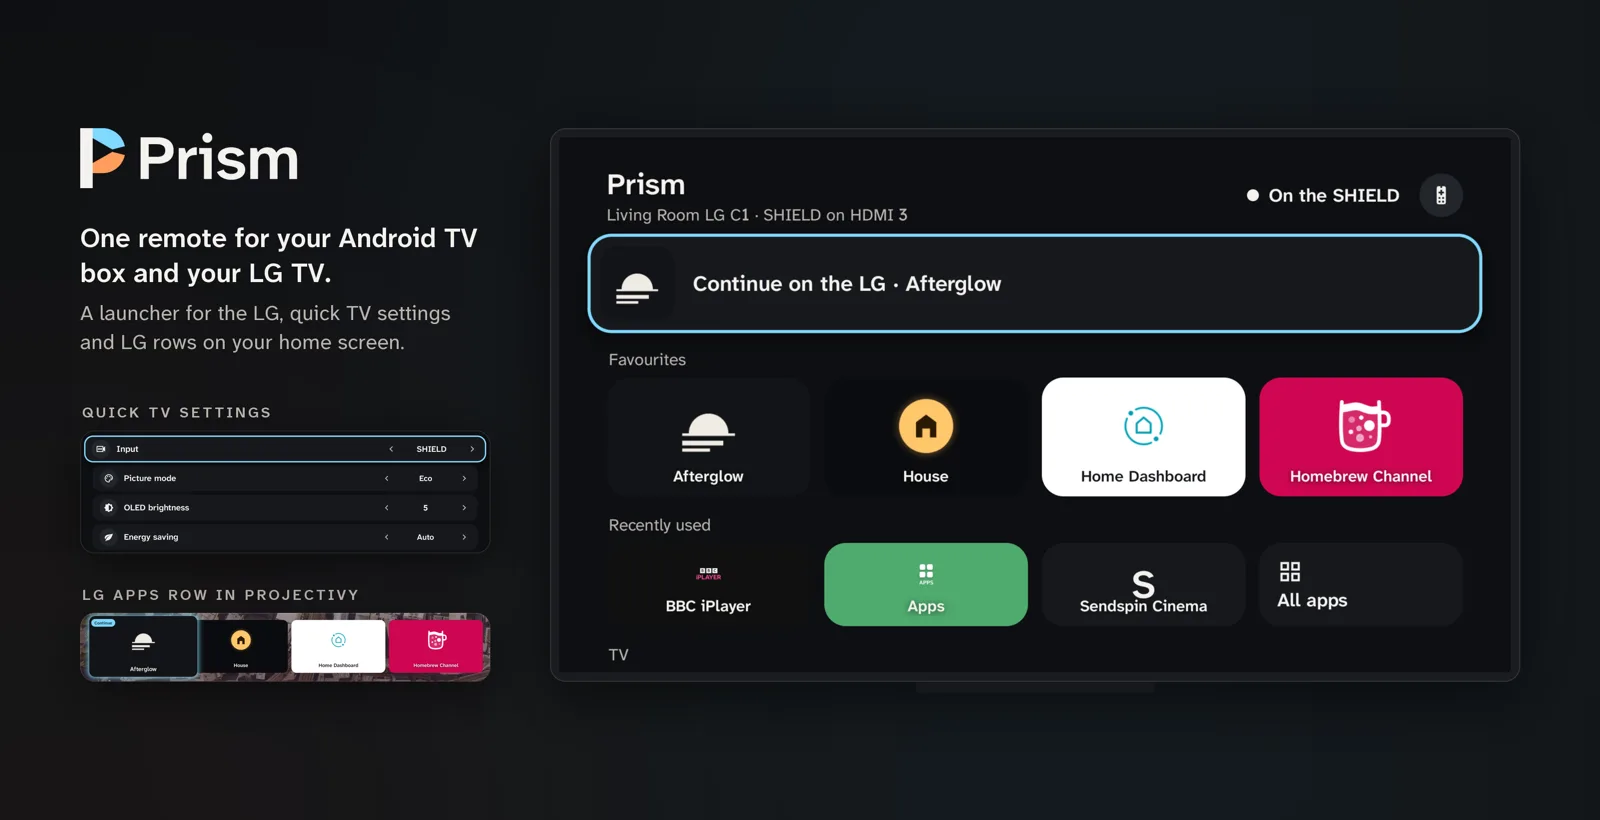
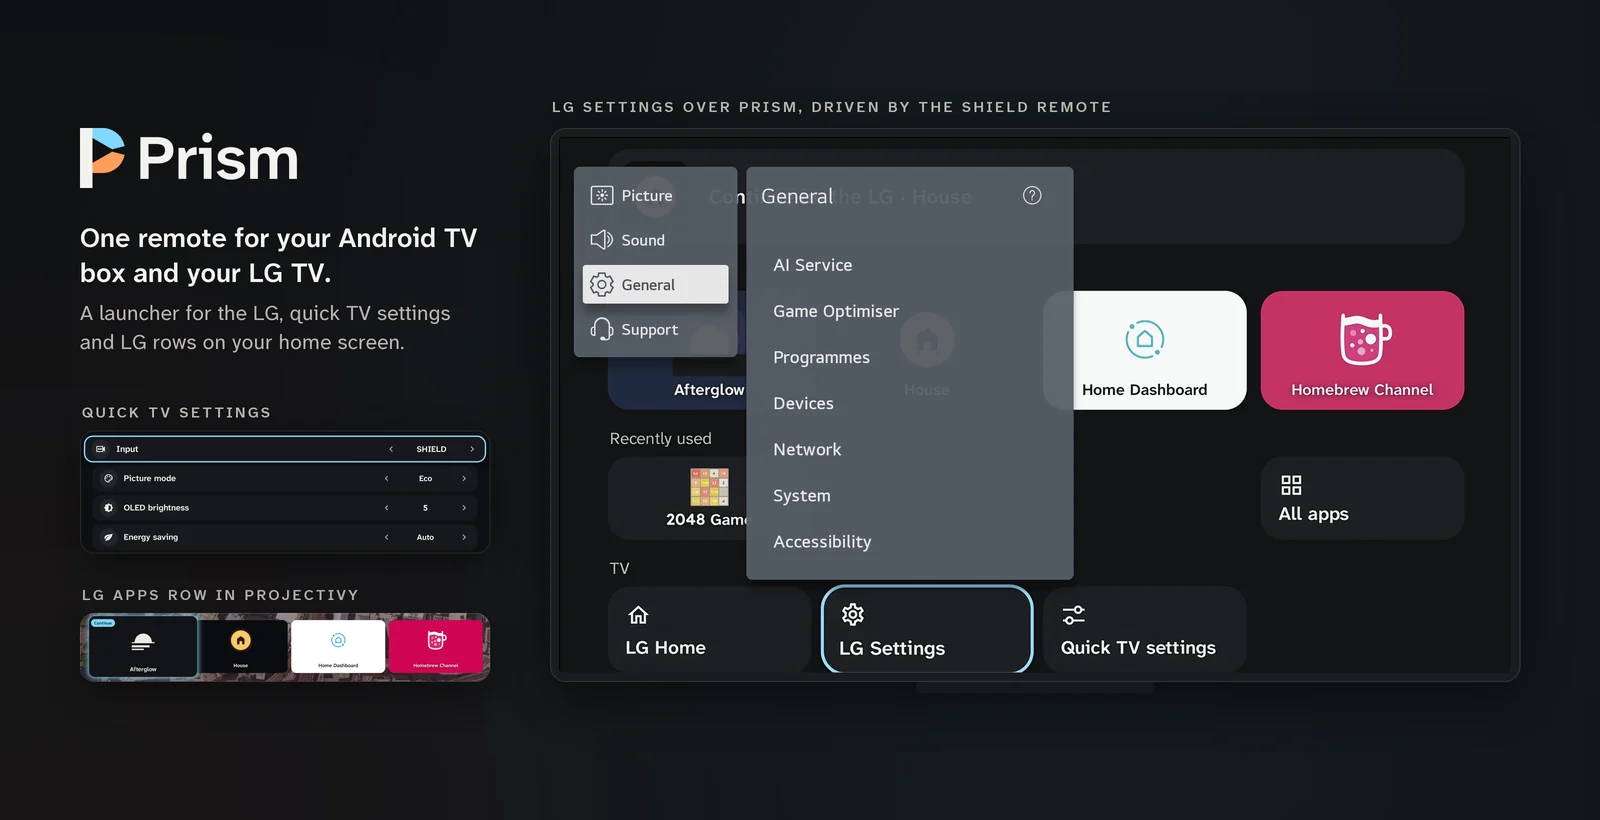
PRISM: the Android TV picture is the TV's own screenshot
The PRISM picture now matches the Android README's hero: LG Settings,
captured by the LG C1 itself, open over the PRISM launcher on the Shield.

diff --git a/src/data/home.ts b/src/data/home.ts
@@ -44,7 +44,7 @@ const projects: Project[] = [
     group: "tv",
     summary:
       "One remote for an LG TV, from an Android TV box or a PS5: while an LG app is on screen, the box's remote or a DualSense drives the TV, with a launcher for LG apps and quick TV settings, through Home Assistant.",
-    hero: { src: prismHero, alt: "PRISM on the Shield: continue on the LG, favourite LG apps and quick TV settings" },
+    hero: { src: prismHero, alt: "PRISM on the Shield, captured by the TV: LG Settings open over the PRISM launcher, driven by the Shield remote, beside quick TV settings and the LG apps row" },
     editions: [
       {
         platform: "Android TV",
